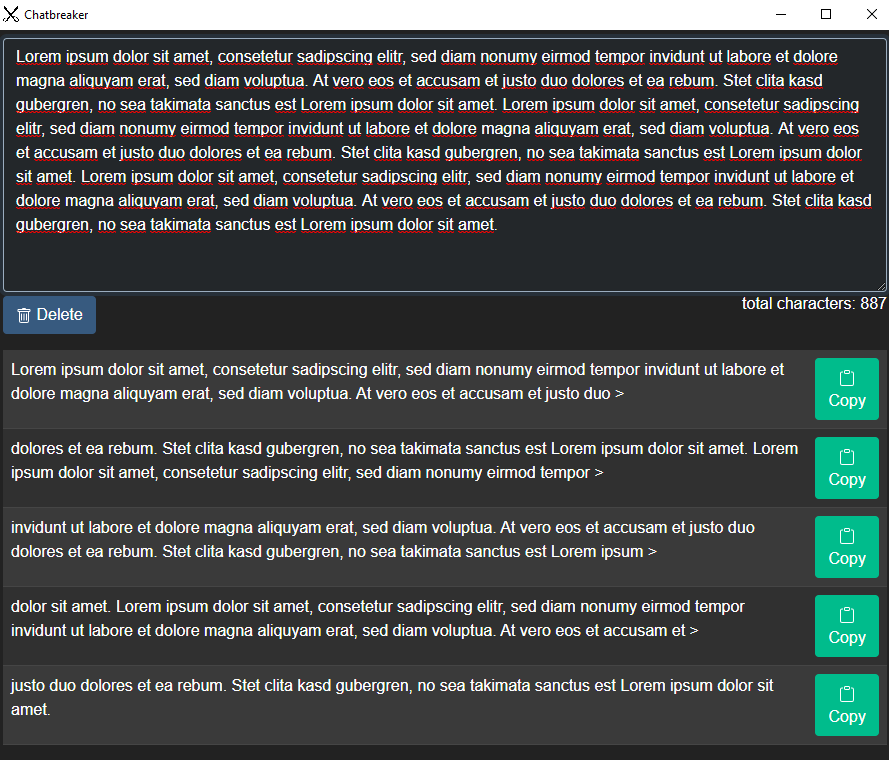
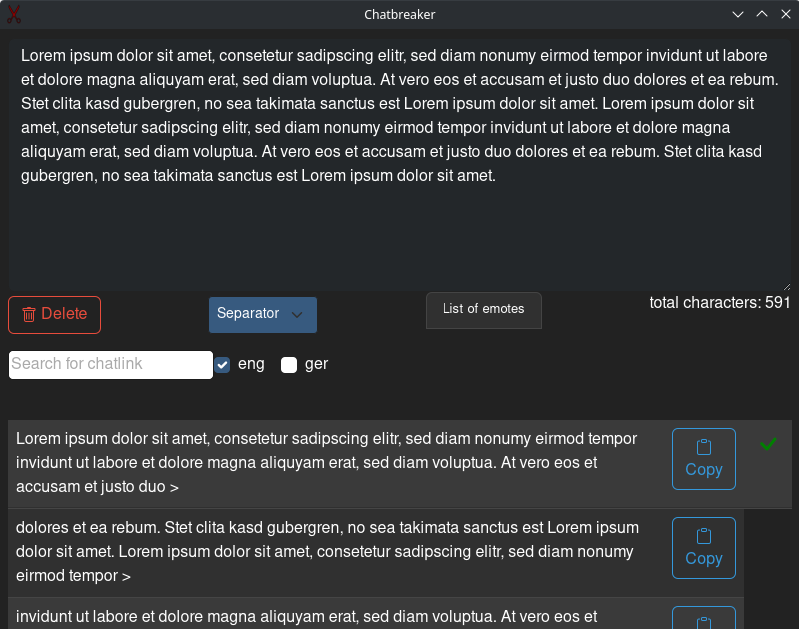
update readme

diff --git a/README.md b/README.md
@@ -1,4 +1,22 @@
-# newport
+# Gw2-Chatbreaker
+Chatbreaker is an application for separating text into single chat messages. Specified for Guild Wars 2 chat messages.
+
+## What is the chatbreaker?
+### Is he breaking the chat? Oo
+The chatbreaker does not destroy the chat in any way. It is an independent program that runs under Windows. It is intended for those who like long texts. GW2 currently allows chat messages with a maximum of 199 characters to be sent. This can influence the writing flow, to see whether the word still fits into the message, where it is best to mark the fact that more text follows or maybe you accidentally delete the typed message with the arrow keys every now and then and delete a previous one message to load. Or you have prescribed certain scenarios and descriptions for an RP event evening that are just waiting to be properly divided into messages.
+
+## How does the program work?
+Any length of text can be entered with the Chatbreaker. As long as your computing power and memory allows it ;). From this text he generates a table. Each line contains a message with a maximum of 199 characters. It is checked whether a word still fits in the message. If it no longer fits, it is immediately transferred to the new message or the new message is opened with it. A follow-up character that signals there is more text to follow and it is not yet finished is automatically inserted into the message (most will know it as ">"). Unless you are really ready with the text. Each line contains an associated "Copy to clipboard" button with which the message can be copied and finally pasted into GW2 with Stgr + v. Here I made a conscious decision to use manual copy + paste. On the one hand, there must be a small pause between messages (most of them not noticeable), on the other hand, it should prevent the chat from being misused by automatic gold-selling messages or other forms of spam.
+The program is a stand-alone executable program. It runs independently and is neither an add-on nor an overlay. 
+
+## I am missing a feature!
+Then write to me :). Via the forum here, via Discord, ingame or via Github. Simply take the contact option from the profile. Maybe you would like to help develop the program.
+I will accumulate the feature requests until another release is worth it. 
+
+## How it looks like
+<br>
+<img src="assets/chatbreaker_view.png" alt="Chatbreaker view"/>
+<br>
 
 ## Project setup
 ```
